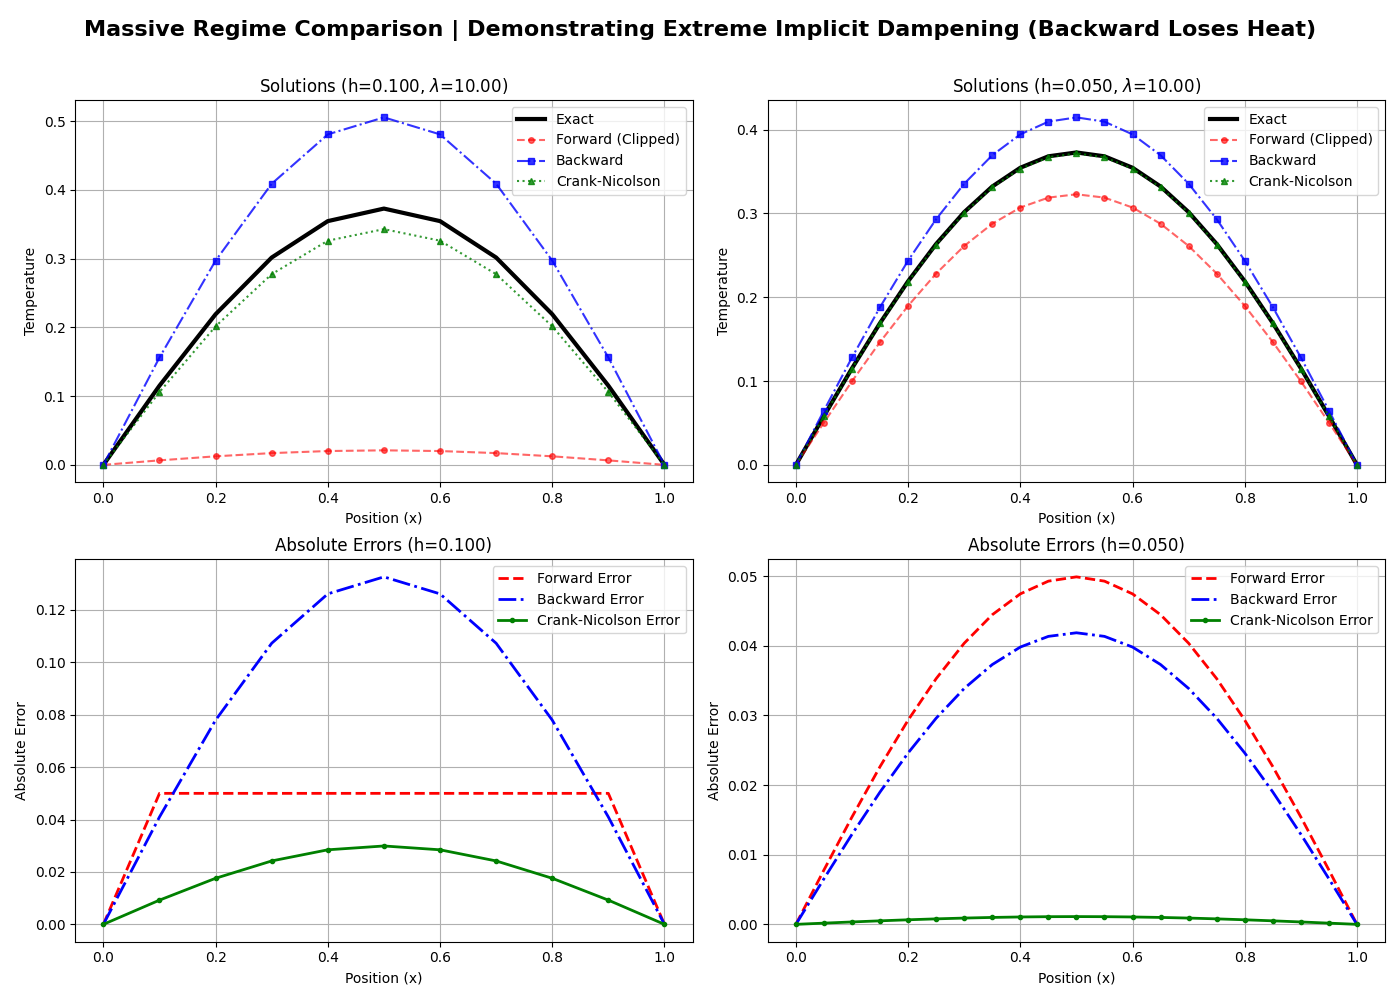
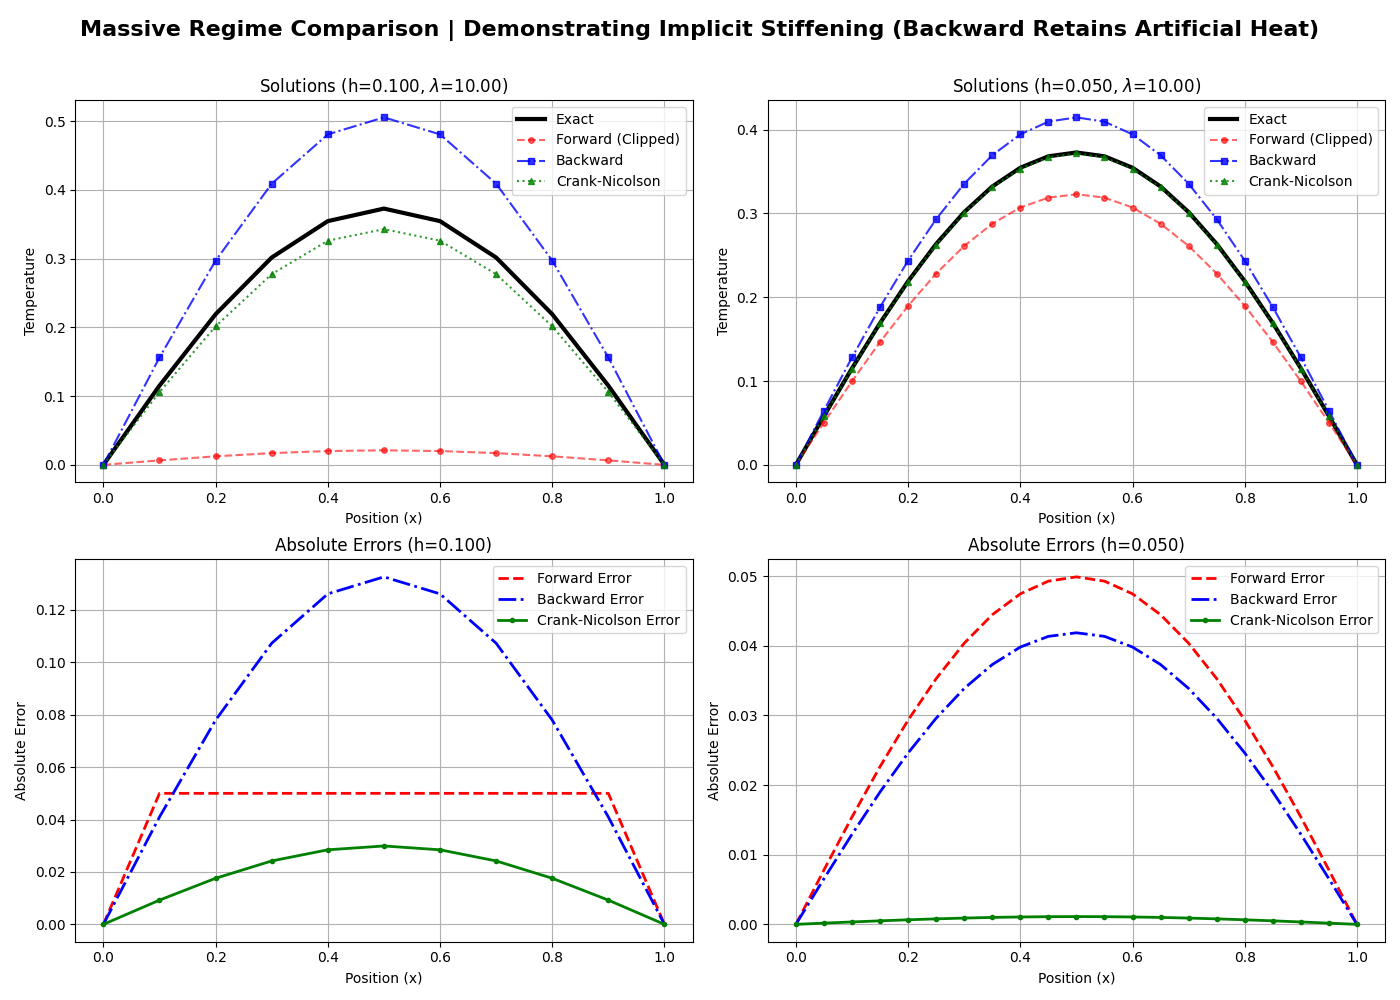
update

Changed region(s): [[0.0614, 0.0, 0.9521, 0.062]]

diff --git a/ProblemB_new.py b/ProblemB_new.py
@@ -96,7 +96,7 @@ def run_comparison(L, T, alpha, N, M, case_name):
     return x, u_exact, w_fwd, w_bwd, w_cn, lam
 
 # --- Execution & Plotting ---
-L, T, alpha = 1.0, 0.1, 1.0
+L, T, alpha = 1.0, 0.5, 1.0
 spatial_grids = [10, 20]
 
 # Define the regimes we want to test
@@ -145,6 +145,6 @@ def plot_regime_and_print_tables(regime_name, target_lambda, title_desc):
 # Generate everything grouped by Regime (Prints Tables -> Shows Figure)
 plot_regime_and_print_tables("Stable", 0.4, "Demonstrating Convergence and Accuracy (Forward is Stable)")
 plot_regime_and_print_tables("Unstable", 2.0, "Demonstrating Error Propagation (Forward Explodes on Fine Grid)")
-plot_regime_and_print_tables("Massive", 10.0, "Demonstrating Extreme Implicit Dampening (Backward Loses Heat)")
+plot_regime_and_print_tables("Massive", 10.0, "Demonstrating Implicit Stiffening (Backward Retains Artificial Heat)")
 
 plt.show()